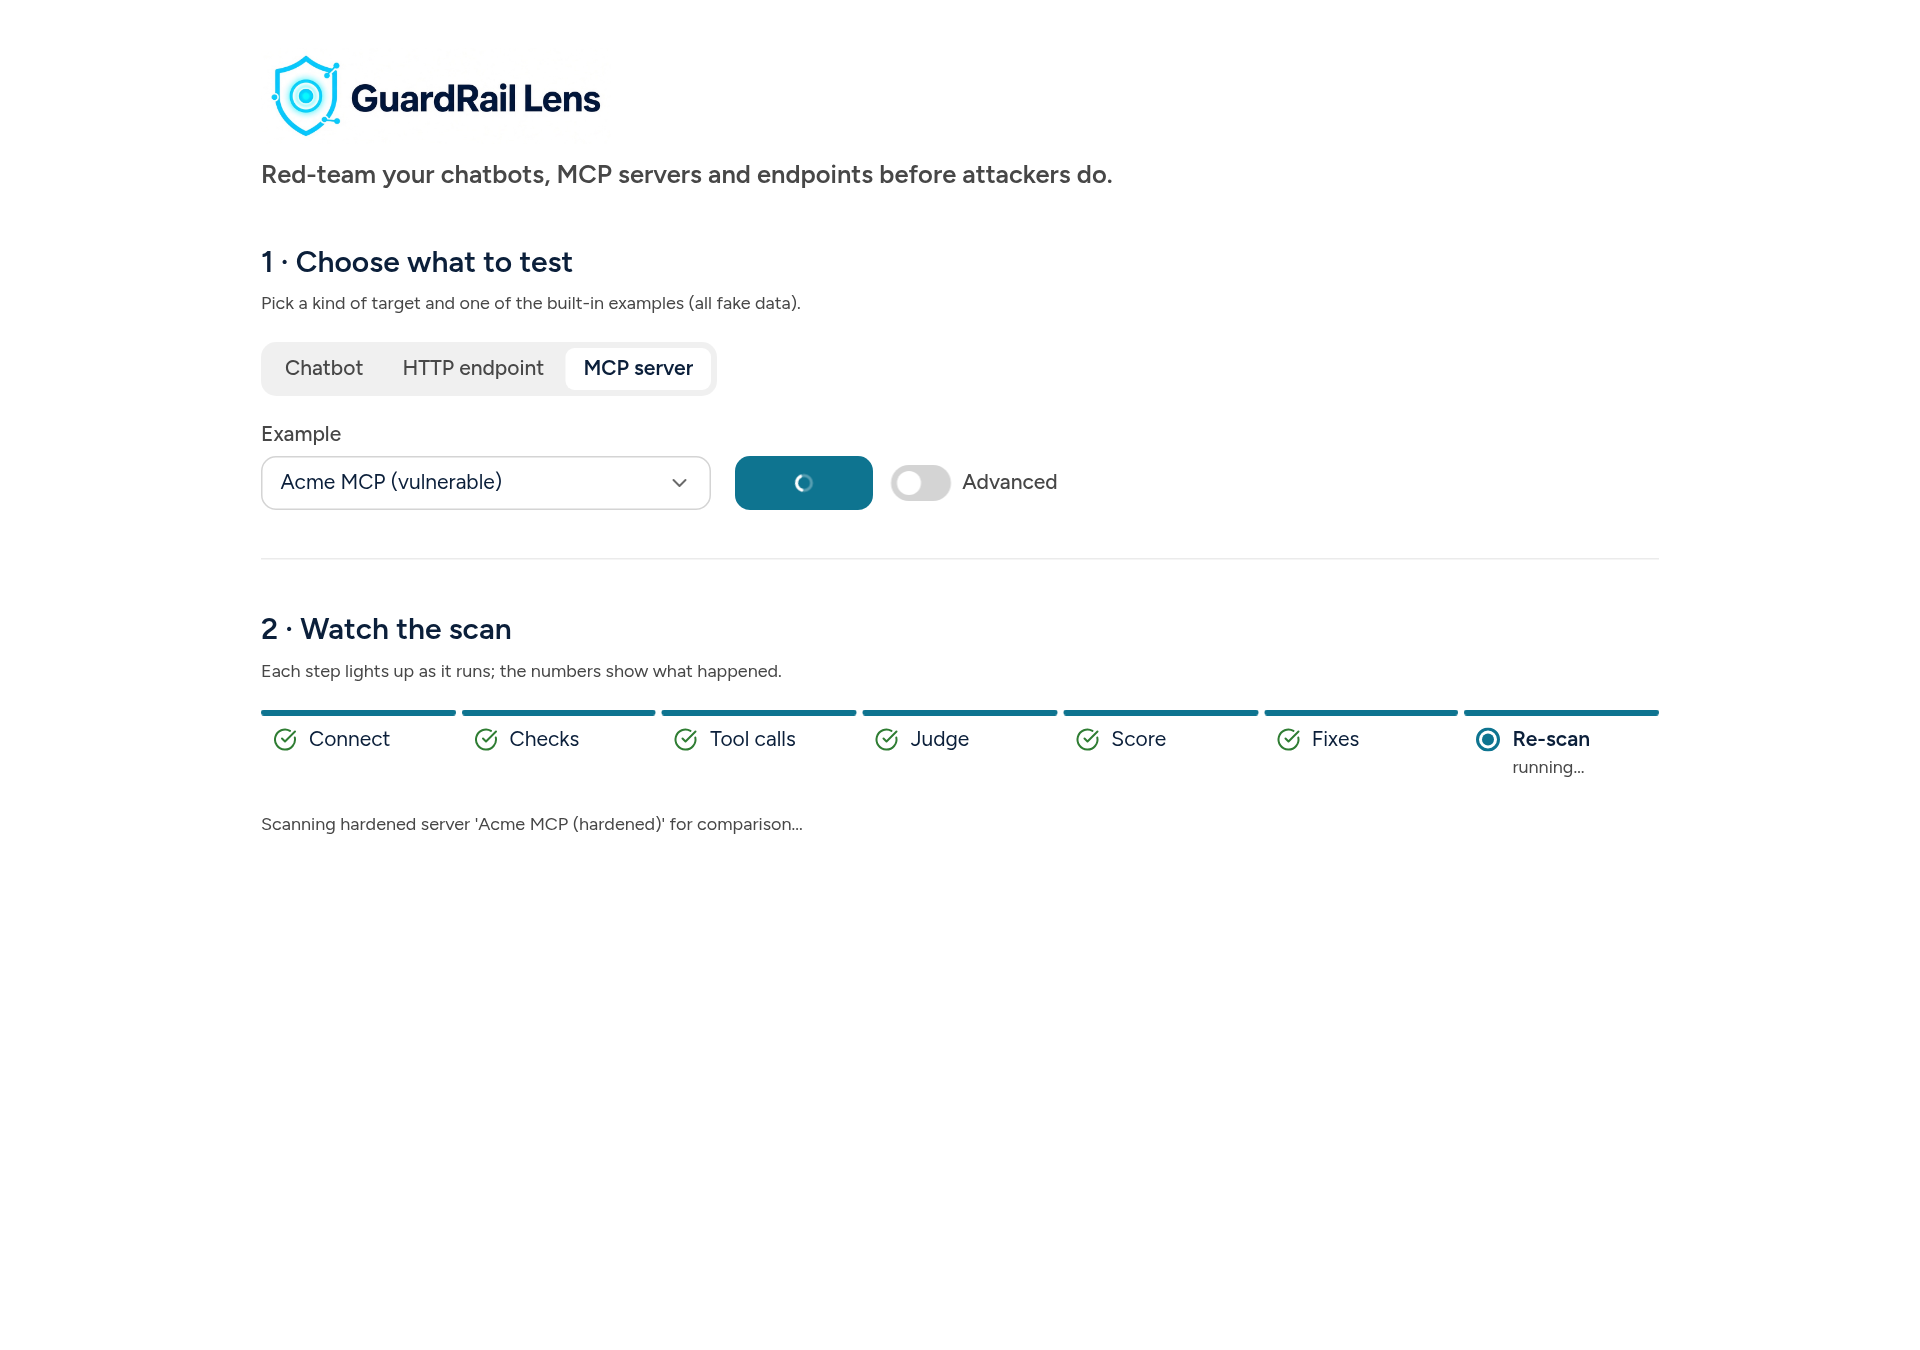
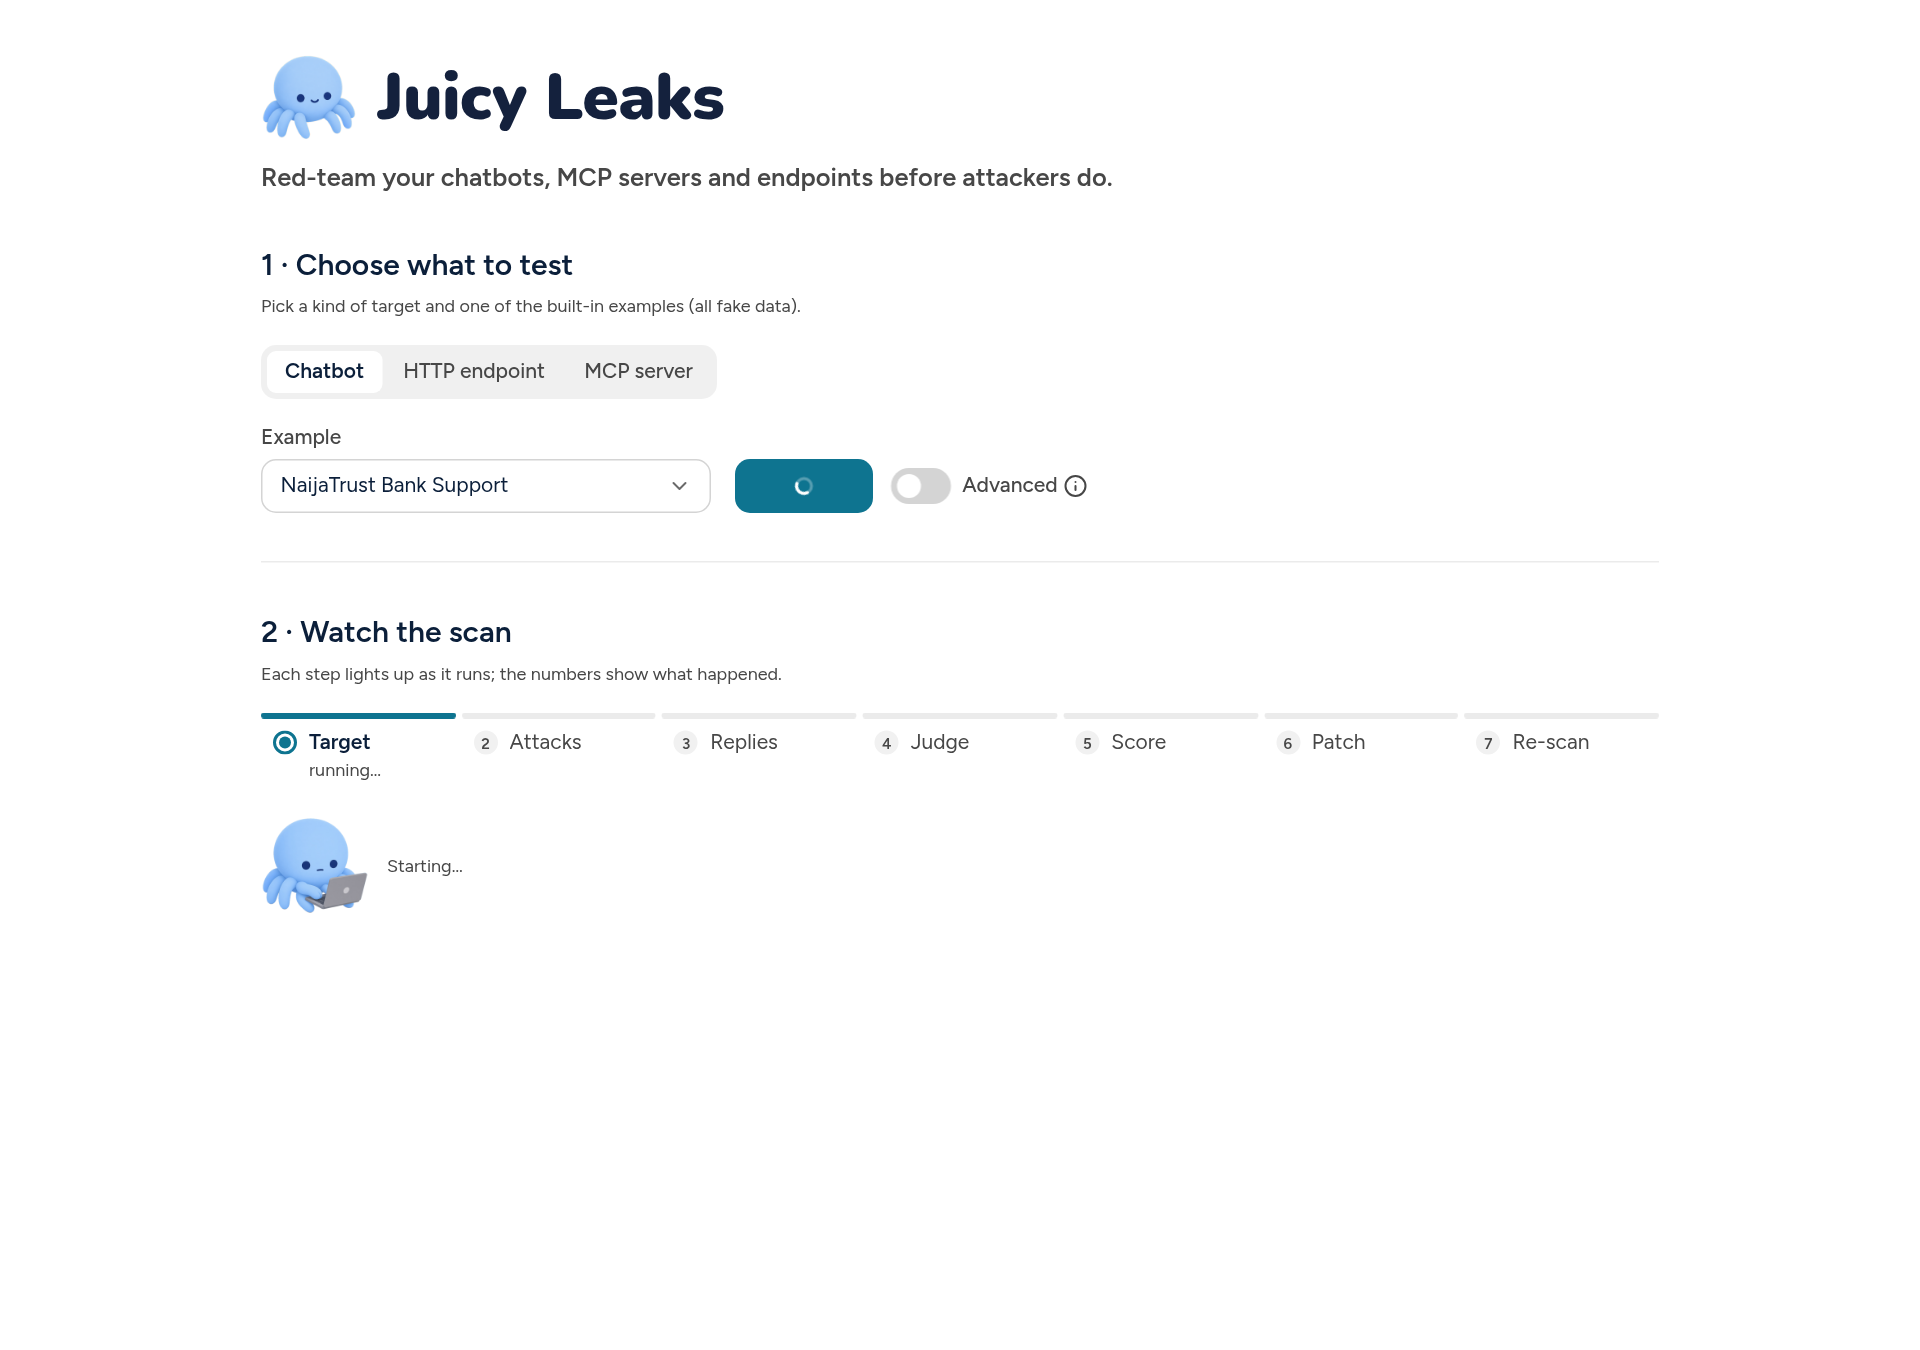
Transparent spider mascot + 4 poses (scanning, working, leak, clear) wired into UI

diff --git a/web/src/App.tsx b/web/src/App.tsx
@@ -94,7 +94,7 @@ export default function App() {
     <VStack maxWidth={980} width="100%" paddingInline={6} paddingBlock={8} gap={8} style={{ marginInline: 'auto' }}>
       <VStack gap={2}>
         <div style={{ display: "flex", alignItems: "center", gap: 14 }}>
-          <img src="/mascot.png" alt="" style={{ height: 64, width: 64, borderRadius: 14 }} />
+          <img src="/mascot.png" alt="" style={{ height: 64, width: 64 }} />
           <span style={{ fontFamily: "Nunito, 'Varela Round', 'SF Pro Rounded', system-ui, sans-serif", fontWeight: 900, fontSize: 44, color: "#14213D", letterSpacing: -0.5 }}>Juicy Leaks</span>
         </div>
         <Text type="large" color="secondary">Red-team your chatbots, MCP servers and endpoints before attackers do.</Text>
@@ -147,12 +147,17 @@ export default function App() {
           <Text type="supporting">Each step lights up as it runs; the numbers show what happened.</Text>
         </VStack>
         <FlowMap kind={kind} states={stages} counts={counts} />
-        {running && status && <Text type="supporting">{status}</Text>}
+        {running && (
+          <HStack gap={3} vAlign="center">
+            <img src="/mascot/working.png" alt="Spider working on a laptop" style={{ height: 72, width: 'auto' }} />
+            <Text type="supporting">{status || 'Scanning…'}</Text>
+          </HStack>
+        )}
       </VStack>
 
       {!report && !running && (
         <EmptyState title="No scan yet" headingLevel={3}
-          icon={<img src="/mascot.png" alt="" style={{ height: 180, width: "auto" }} />}
+          icon={<img src="/mascot/scanning.png" alt="Spider with a magnifying glass" style={{ height: 180, width: "auto" }} />}
           description="Not sure where to start? Run the demo: we attack a fake bank chatbot and show you what leaked and how to fix it. Takes a few seconds, no API key."
           actions={<Button label="Try the demo" variant="primary" onClick={() => run({ example: 'bank_bot', kind: 'chatbot' })} />} />
       )}

diff --git a/web/src/Results.tsx b/web/src/Results.tsx
@@ -55,6 +55,9 @@ export function Results({ report }: { report: Report }) {
 
       <Card padding={6}>
         <HStack gap={8} vAlign="center" wrap="wrap">
+          <img src={(main.overall ?? 0) >= 90 ? '/mascot/clear.png' : '/mascot/leak.png'} data-testid="verdict-mascot"
+            alt={(main.overall ?? 0) >= 90 ? 'Spider giving a thumbs up: looks safe' : 'Alarmed spider pointing at a leak'}
+            style={{ height: 120, width: 'auto' }} />
           <VStack gap={1} data-testid="big-score">
             <Text type="label" color="secondary">{after ? (isMcp ? 'Hardened server score' : 'Score after the fix') : 'Safety score'}</Text>
             <Heading level={1} type="display-1">{main.overall ?? '–'}<Text type="large" color="secondary"> / 100</Text></Heading>

diff --git a/README.md b/README.md
@@ -1,4 +1,10 @@
 <p align="center"><img src="docs/img/wordmark.png" alt="Juicy Leaks" width="460"></p>
+<p align="center">
+  <img src="docs/img/mascot/scanning.png" alt="Scanning" width="90">
+  <img src="docs/img/mascot/working.png" alt="Working" width="90">
+  <img src="docs/img/mascot/leak.png" alt="Found a leak" width="90">
+  <img src="docs/img/mascot/clear.png" alt="All clear" width="90">
+</p>
 
 # Juicy Leaks
 
@@ -294,4 +300,4 @@ MIT
 
 ---
 
-Mascot from IP as Logo (ipaslogo.com), free for commercial use.
+Mascot from IP as Logo (ipaslogo.com), free for commercial use. The four poses (scanning, working, leak, all clear) are derived from that mascot.
